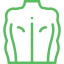
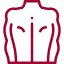
added new images and styles to homepage

diff --git a/components/Products/Card.js b/components/Products/Card.js
@@ -3,14 +3,15 @@ import Paper from "@material-ui/core/Paper";
 import Grid from "@material-ui/core/Grid";
 import { productsData } from "../../data";
 import classes from "./Card.module.css";
+import NavigateNextIcon from "@material-ui/icons/NavigateNext";
 
 export default function Card() {
   return (
-    <Grid lg={6} container spacing={4}>
+    <Grid lg={6} container item spacing={4} justify="center">
       {productsData.map((data, index) => {
         const { title, text, icon } = data;
         return (
-          <Grid item lg={4} justify="center">
+          <Grid key={index} item lg={4}>
             <Paper className={classes.paper}>
               <img
                 style={{ color: "red" }}
@@ -20,6 +21,15 @@ export default function Card() {
               />
               <h4>{title}</h4>
               <p>{text}</p>
+              <div className={classes.buttons}>
+                <a href="">
+                  Läs mer
+                  <NavigateNextIcon
+                    fontSize="small"
+                    style={{ marginTop: "5px" }}
+                  />
+                </a>
+              </div>
             </Paper>
           </Grid>
         );

diff --git a/components/About/Image.module.css b/components/About/Image.module.css
@@ -1,13 +1,42 @@
-.image img {
-  width: 50%;
+.second img {
+  max-width: 100%;
+  max-height: 100%;
   object-position: center;
   object-fit: cover;
-  border-radius: 5px;
+  border-radius: 2px;
+  margin: 0;
+}
+
+.content img {
+  width: 100%;
+  max-height: 100%;
+  object-position: center;
+  object-fit: cover;
+  border-radius: 2px;
+  margin: 0;
+}
+
+.content {
+  width: 40%;
+  display: flex;
+  flex-direction: column;
+  align-items: flex-end;
 }
 
 .image {
-  display: flex;
-  justify-content: flex-end;
+  align-items: flex-end;
   width: 50%;
-  height: 550px;
+  display: flex;
+  flex-direction: column;
+}
+
+.content > *:nth-child(1) {
+  flex: 1 1 60%;
+  min-height: 300px;
+}
+
+.content > *:nth-child(2) {
+  flex: 1 1 40%;
+  min-height: 100px;
+  margin-top: 10px;
 }

diff --git a/components/About/Text.js b/components/About/Text.js
@@ -1,6 +1,6 @@
 import React from "react";
 import classes from "./Text.module.css";
-import WhiteButton from "../ui/WhiteButton";
+import BlueButton from "../ui/BlueButton";
 import GreenButton from "../ui/GreenButton";
 
 const Text = () => {
@@ -24,8 +24,8 @@ const Text = () => {
         </p>
       </div>
       <div className={classes.buttons}>
-        <GreenButton>Boka nu</GreenButton>
-        <WhiteButton>Läs mer</WhiteButton>
+        <GreenButton>Kontakt</GreenButton>
+        <BlueButton>Läs mer</BlueButton>
       </div>
     </div>
   );

diff --git a/components/ui/GreenButton.js b/components/ui/GreenButton.js
@@ -1,9 +1,10 @@
 import React from "react";
 import Button from "@material-ui/core/Button";
+import classes from "./Button.module.css";
 
 const GreenButton = (props) => {
   return (
-    <div>
+    <div className={classes.button}>
       <Button
         variant="contained"
         style={{
@@ -14,7 +15,6 @@ const GreenButton = (props) => {
           padding: "10px 2.5rem",
           textTransform: "none",
         }}
-        href="#contained-buttons"
       >
         <p style={{ color: "white" }}>{props.children}</p>
       </Button>

diff --git a/components/Slider/Slider.js b/components/Slider/Slider.js
@@ -7,9 +7,8 @@ const Slider = () => {
     <div className={classes.slider}>
       <div className={classes.content}>
         <h3>
-          Kiropraktorerna som arbetar hos{" "}
-          <span style={{ color: "var(--green)" }}>Hägglunds </span>är alla
-          legitimerade av Socialstyrelsen
+          Kiropraktorerna som arbetar hos Hägglunds är alla legitimerade av
+          Socialstyrelsen
         </h3>
         <div className={classes.buttons}>
           <WhiteButton>Läs mer</WhiteButton>

diff --git a/components/layout/Footer/Links.js b/components/layout/Footer/Links.js
@@ -10,10 +10,10 @@ const Links = () => {
         {linksData.map((data, index) => {
           const { title, link } = data;
           return (
-            <li>
+            <li key={index}>
               <a href="">
                 <span>
-                  <i class="fas fa-angle-right"></i>
+                  <i className="fas fa-angle-right"></i>
                   <p>{title}</p>
                 </span>
               </a>

diff --git a/components/ContactSlider/ContactSlider.js b/components/ContactSlider/ContactSlider.js
@@ -9,9 +9,9 @@ const ContactSlider = () => {
         {contactData.map((contact, index) => {
           const { title, text, icon } = contact;
           return (
-            <div className={classes.contact}>
+            <div key={index} className={classes.contact}>
               <span>
-                <i class={icon}></i>
+                <i className={icon}></i>
               </span>
 
               <span>

diff --git a/components/About/Image.js b/components/About/Image.js
@@ -4,7 +4,11 @@ import classes from "./Image.module.css";
 const Image = () => {
   return (
     <div className={classes.image}>
-      <img src="../images/bg2.jpg" alt="Om oss" />
+      <div className={classes.content}>
+        {" "}
+        <img src="../images/bg4.jpg" alt="Om oss" />
+        <img src="../images/bg3.jpg" alt="Om oss" />
+      </div>
     </div>
   );
 };

diff --git a/styles/globals.css b/styles/globals.css
@@ -46,8 +46,8 @@ a {
   --grey: #343a40;
   --black: #000814;
   --lightgrey: #e5e7eb;
-  --red: #9e042f;
-  --green: #57bd5e;
+  --red: #57bd5e;
+  --green: #9e042f;
   --blue: #223543;
   --bg: #f6f6f8;
   --lightgrey: #f8f9fa;

diff --git a/components/Products/Card.module.css b/components/Products/Card.module.css
@@ -6,3 +6,15 @@
 .paper img {
   margin-bottom: 10px;
 }
+
+.buttons a {
+  color: var(--green);
+  display: flex;
+  align-items: center;
+}
+
+.buttons {
+  margin-top: 10px;
+  display: flex;
+  justify-content: center;
+}

diff --git a/components/ContactSlider/ContactSlider.module.css b/components/ContactSlider/ContactSlider.module.css
@@ -33,7 +33,7 @@
 }
 
 .contactSlider i {
-  color: var(--green);
+  color: var(--lightblue);
   font-size: 2.5rem;
   margin-right: 1rem;
 }

diff --git a/components/layout/Footer/Links.module.css b/components/layout/Footer/Links.module.css
@@ -18,6 +18,6 @@
 }
 
 .links i {
-  color: var(--green);
+  color: var(--lightblue);
   margin-right: 10px;
 }
